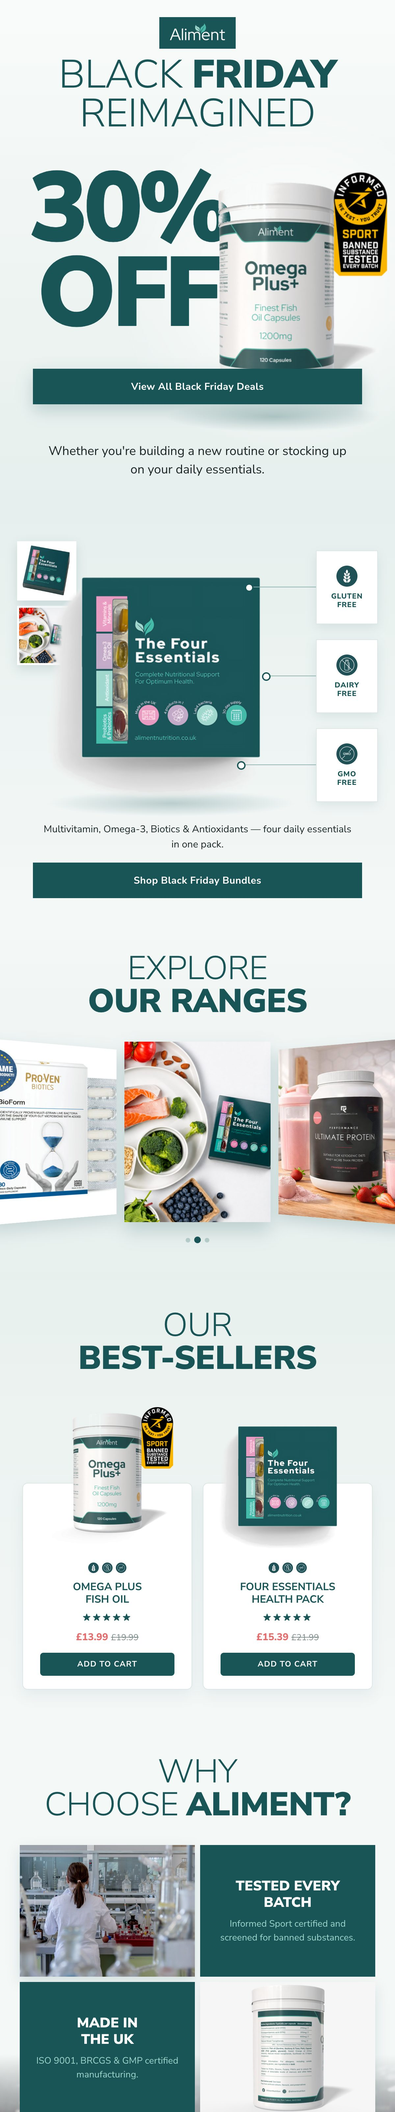
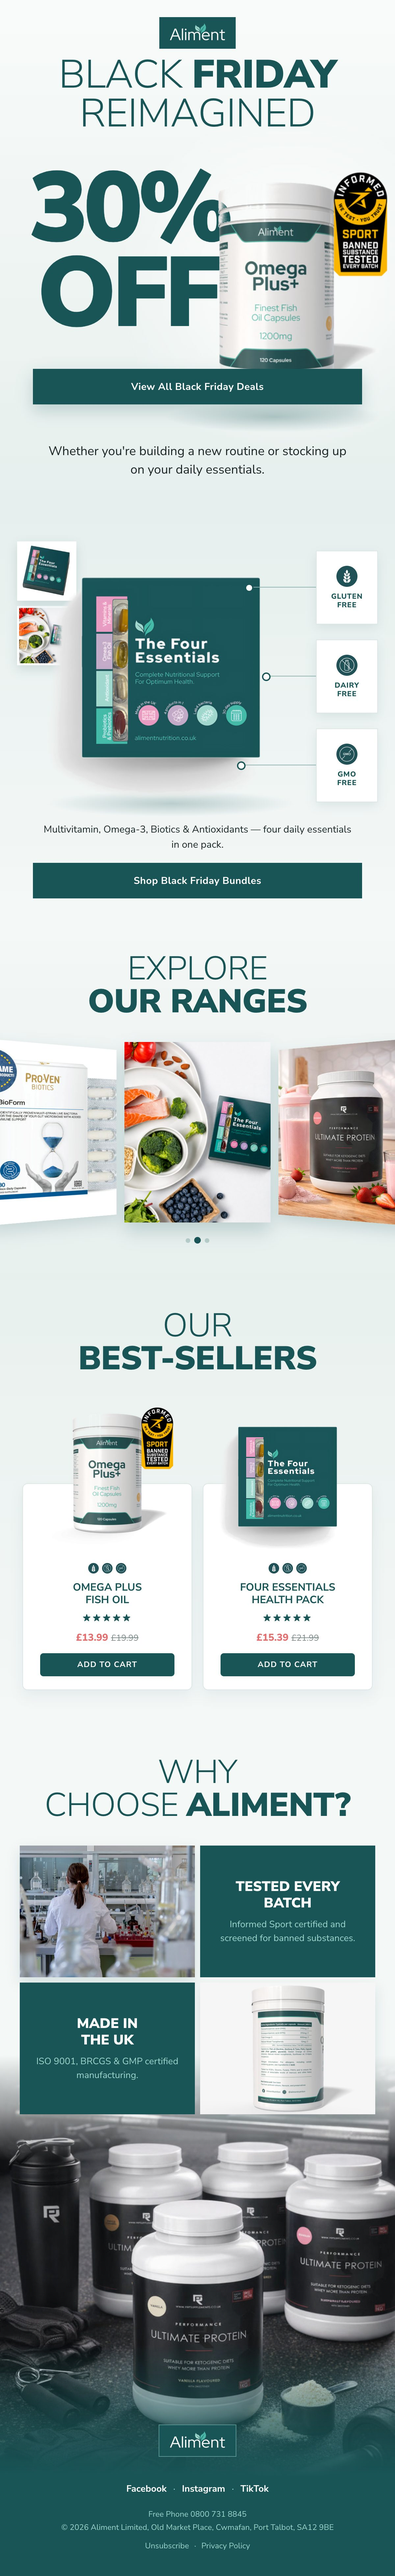
Keep the full Black Friday email including its footer
The product-photo background flows as one continuous gradient into
the footer on this one, so cropping it cut mid-image. The welcome and
early-access emails stay cropped as before.

diff --git a/src/lib/strategy.ts b/src/lib/strategy.ts
@@ -828,9 +828,9 @@ export const strategyPitches: StrategyPitch[] = [
           label: "Black Friday",
           image: {
             src: "/pitch-assets/alimentnutrition/email-bfcm-design.jpg",
-            alt: "A designed Black Friday email for Aliment Nutrition titled Black Friday Reimagined, offering 30% off with bundle and best-seller sections",
+            alt: "A designed Black Friday email for Aliment Nutrition titled Black Friday Reimagined, offering 30% off with bundle, best-seller and brand footer sections",
             width: 1200,
-            height: 6415,
+            height: 7822,
           },
         },
         {
